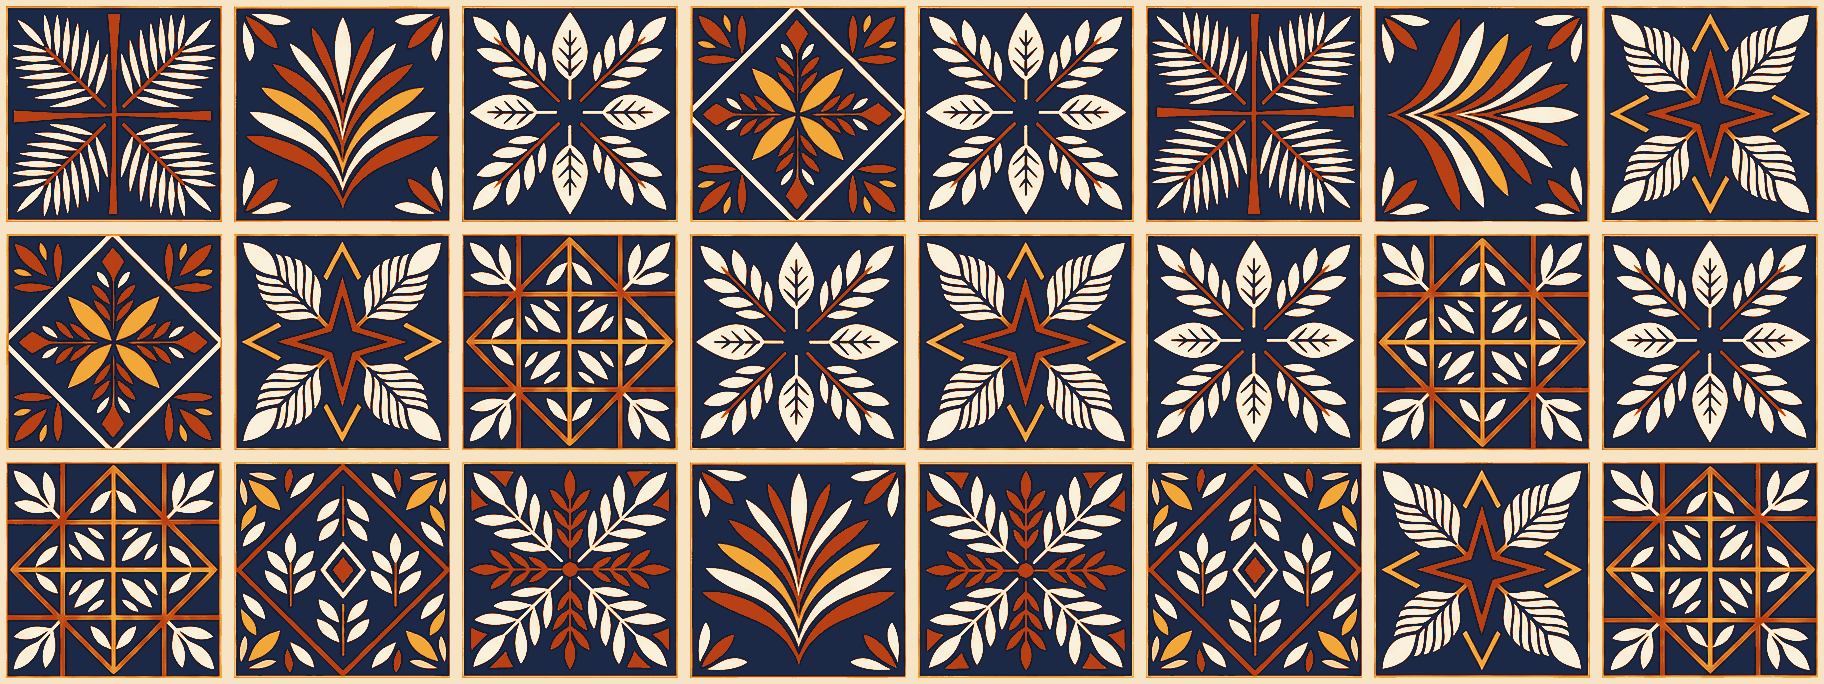
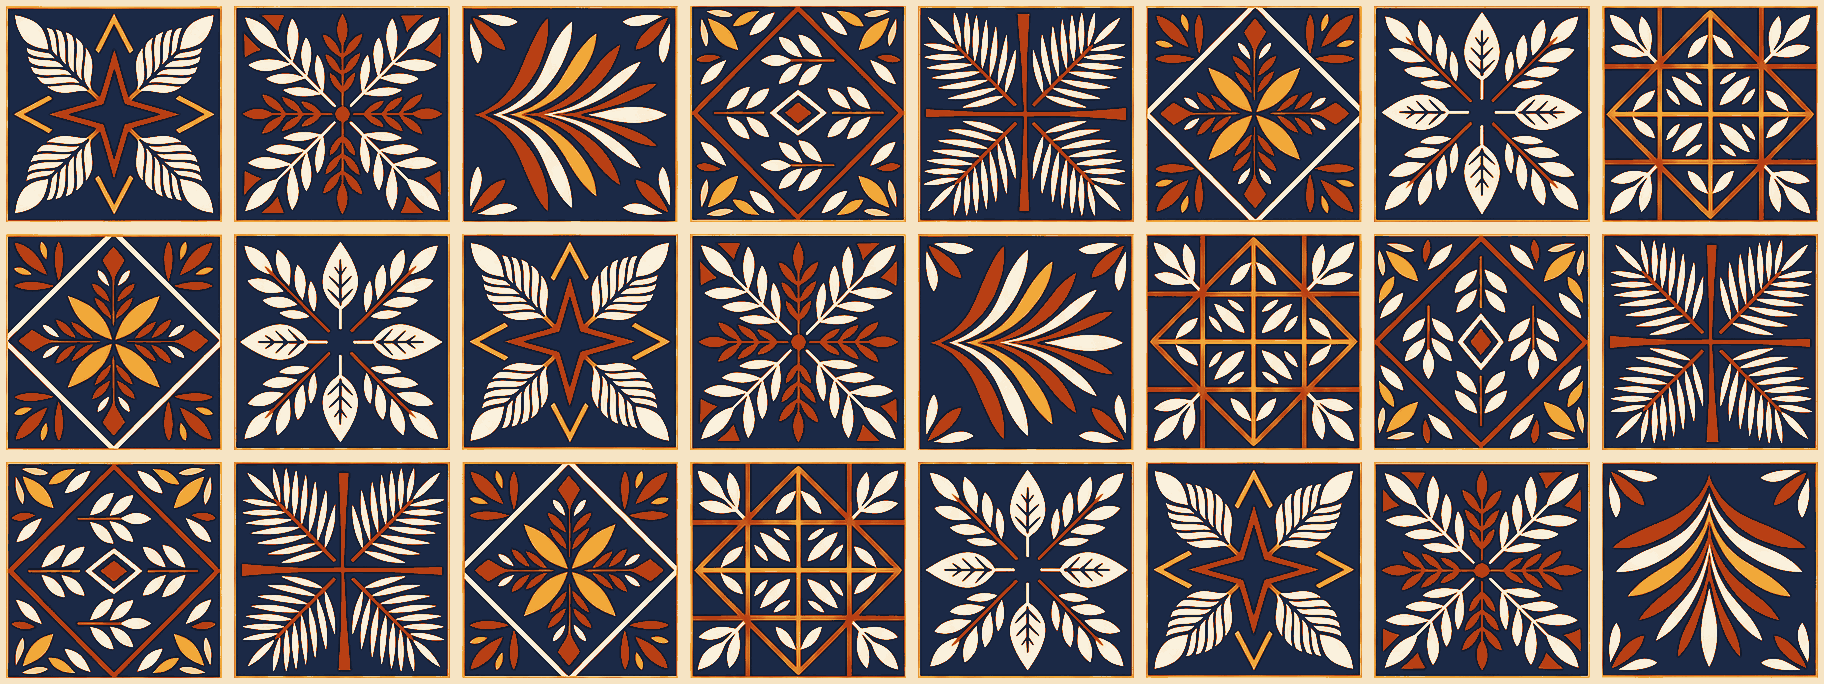
Fix identical tiles meeting across the band's repeat seam
The previous arrangement checked adjacency only within the grid, so it never saw
that the mosaic tiles: column 7 sits against column 0 on every repeat. Tile 8
landed at both ends of the bottom row and met itself at the seam.

Rebuilt with the grid treated as a torus. No tile now touches itself in any of
the eight directions with wrap included, on both axes — vertical wrap matters
too, since the mobile row count draws five rows from a three-row mosaic and puts
row 2 against row 0.

Went further than the fix needed while the constraint solver was there: each row
is now a full permutation of the eight tiles, so usage is exactly three apiece
and no tile repeats anywhere within a row. 19 distinct tile-and-rotation
combinations across the 24 cells.

Checked the divider band for the same flaw — it uses eight distinct tiles in a
single row, so its wrap pair differs and it was already clean.

152 KB -> 170 KB; the arrangement compresses slightly differently.

diff --git a/README.md b/README.md
@@ -111,6 +111,13 @@ renders its tiles larger and sits near 1.3x, because the concept sheet caps each
 tile around 218px and upscaling past that only synthesises detail — measured at
 381 KB against 152 KB for no real gain, so the native pixels ship.
 
+The band's arrangement is constrained, not shuffled. Every row is a full
+permutation of the eight tiles, and no tile touches itself in any of the eight
+directions **on a torus** — the mosaic repeats, so column 7 really does sit
+against column 0, and at the mobile row count row 2 sits against row 0. An
+earlier version checked adjacency only inside the grid and shipped a pair of
+identical tiles meeting across the horizontal seam.
+
 Two of the eighteen tiles are deliberately unused — the orange lattice and the
 interlocking circles are cream-dominant and read as holes in a dark field.
 
